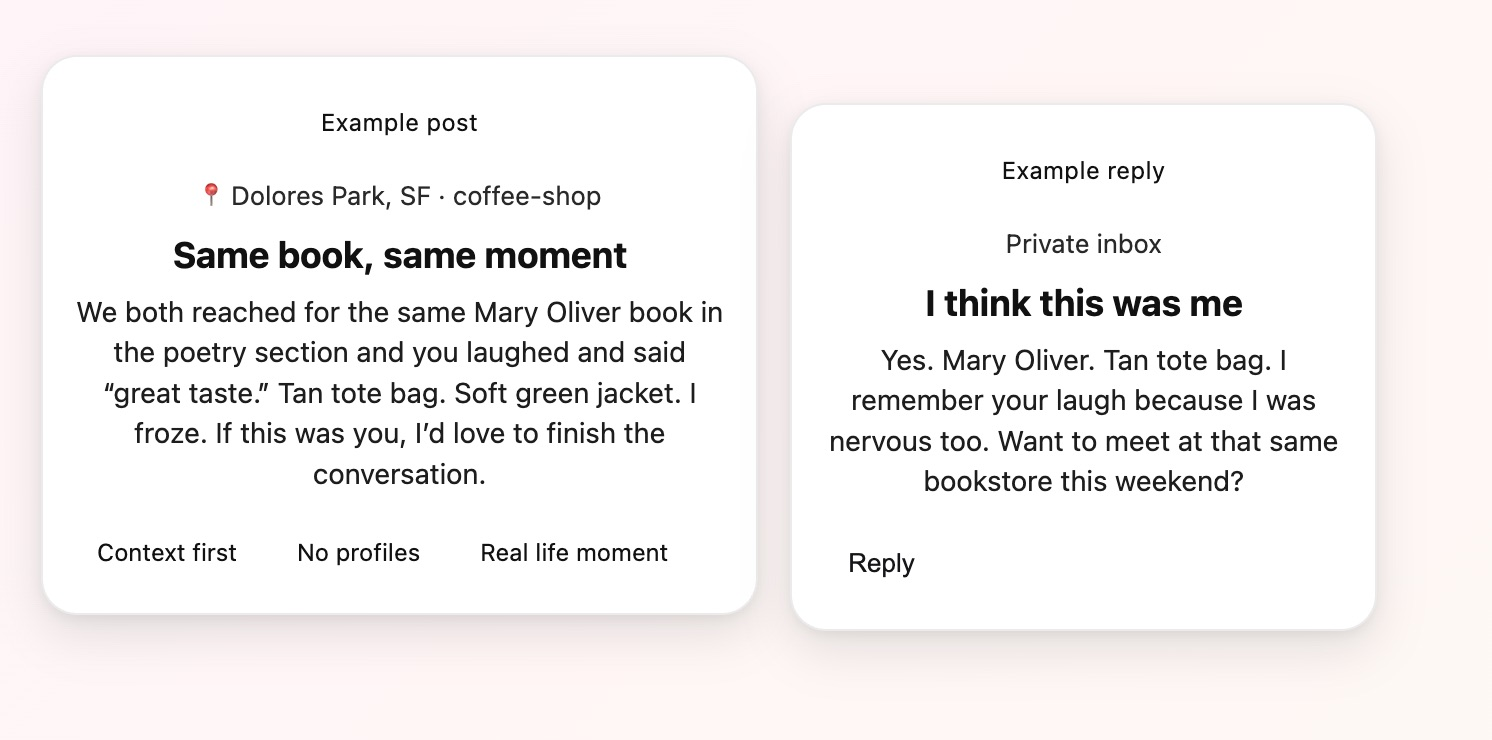
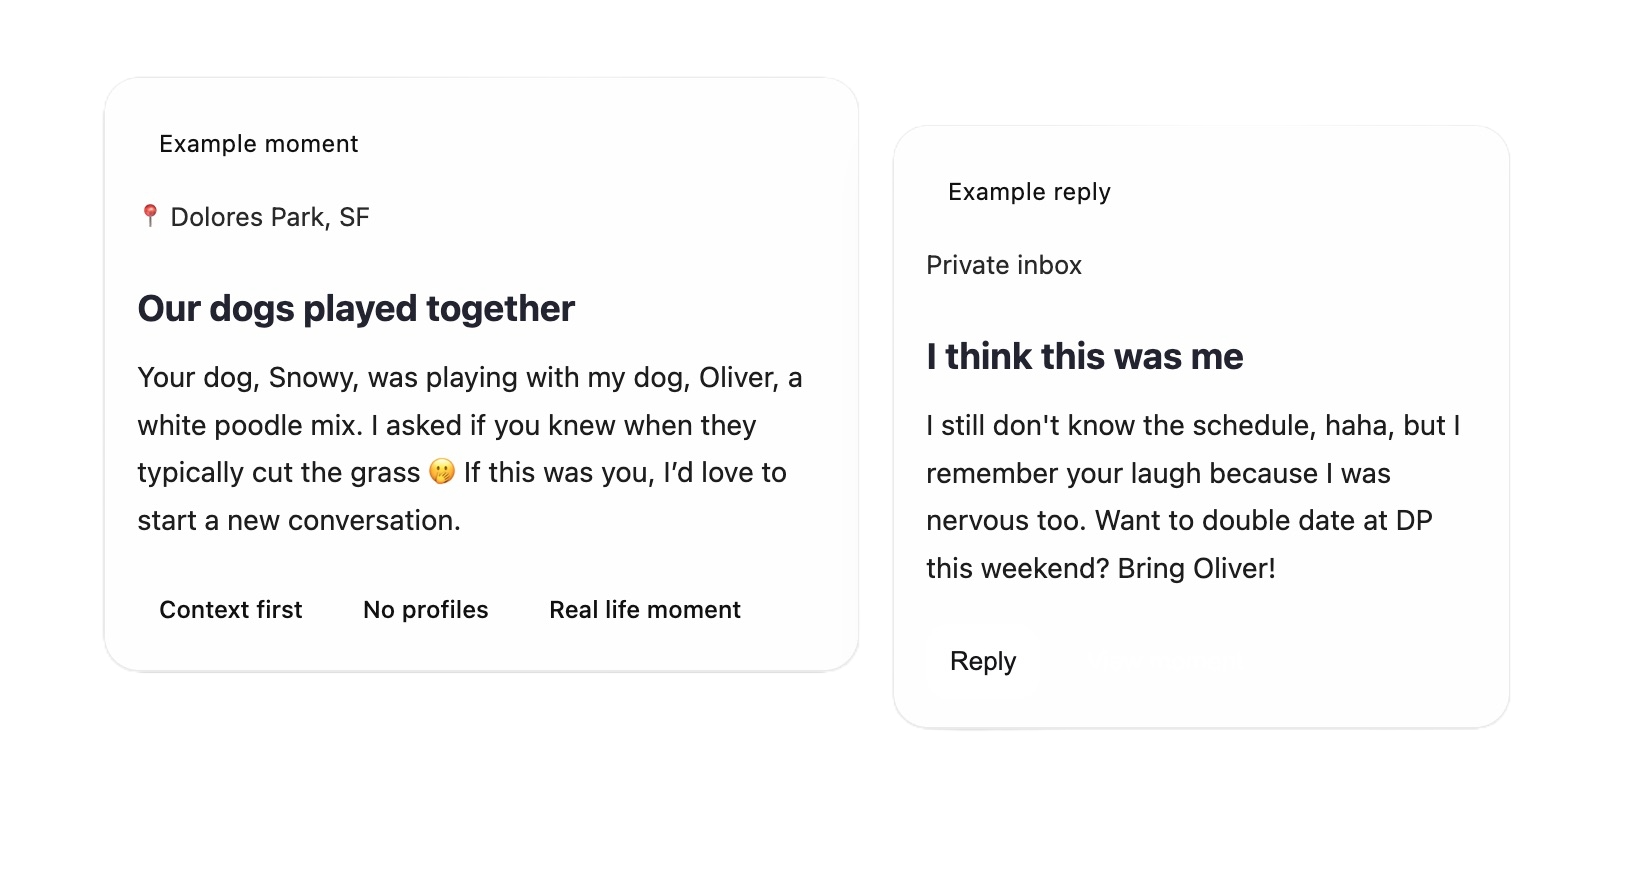
change hero animation to static shots with controls

diff --git a/public/index.html b/public/index.html
@@ -5,258 +5,6 @@
     <meta name="viewport" content="width=device-width, initial-scale=1.0" />
     <title>Crabiner - Missed Connections for Queers</title>
     <link rel="stylesheet" href="/styles/styles.css" />
-    <!-- <link rel="stylesheet" href="/styles/hero.css" /> -->
-
-    <style>
-      .hero-demo {
-        width: 100%;
-        max-width: 980px;
-        margin: 0 auto;
-        padding: 22px 16px 10px;
-      }
-
-      .demo-stage {
-        position: relative;
-        /* background: linear-gradient(
-          to bottom,
-          rgba(255, 255, 255, 0.96),
-          rgba(255, 255, 255, 0.98)
-        ); */
-        border-radius: 20px;
-        padding: 12px;
-      }
-      .demo-stage::before {
-        content: "";
-        display: block;
-        height: 460px;
-      }
-      @media (min-width: 820px) {
-        .demo-stage::before {
-          height: 380px;
-        }
-      }
-
-      /* Each pair sits on top of each other and fades in/out */
-      .demo-pair {
-        position: absolute;
-        inset: 0;
-        display: grid;
-        gap: 14px;
-        align-items: start;
-        opacity: 0;
-        pointer-events: none;
-      }
-
-      /* Desktop: post + reply side-by-side */
-      @media (min-width: 820px) {
-        .demo-pair {
-          grid-template-columns: 1.1fr 0.9fr;
-          gap: 16px;
-        }
-        .demo-pair .demo-reply {
-          margin-top: 24px;
-        }
-      }
-
-      .demo-card {
-        border: 1px solid rgba(0, 0, 0, 0.08);
-        background: rgba(255, 255, 255, 1);
-        border-radius: 18px;
-        padding: 16px 16px 14px;
-        box-shadow: 0 10px 24px rgba(0, 0, 0, 0.1),
-          0 2px 6px rgba(0, 0, 0, 0.06);
-        color: #111;
-      }
-
-      .demo-badge {
-        display: inline-flex;
-        align-items: center;
-        padding: 6px 10px;
-        border-radius: 999px;
-        font-size: 12px;
-        letter-spacing: 0.2px;
-        border: 1px solid rgba(255, 255, 255, 0.16);
-        background: rgba(255, 255, 255, 0.06);
-        margin-bottom: 10px;
-      }
-
-      .demo-badge-reply {
-        background: rgba(255, 255, 255, 0.1);
-      }
-
-      .demo-meta {
-        font-size: 13px;
-        opacity: 0.9;
-        margin-bottom: 8px;
-      }
-
-      .demo-title {
-        font-size: 18px;
-        margin: 0 0 8px 0;
-        line-height: 1.2;
-      }
-
-      .demo-body {
-        margin: 0 0 12px 0;
-        font-size: 14px;
-        line-height: 1.45;
-        opacity: 0.95;
-      }
-
-      .demo-chiprow {
-        display: flex;
-        flex-wrap: wrap;
-        gap: 8px;
-      }
-
-      .demo-chip {
-        font-size: 12px;
-        padding: 6px 10px;
-        border-radius: 999px;
-        background: rgba(255, 255, 255, 0.07);
-        border: 1px solid rgba(255, 255, 255, 0.12);
-      }
-
-      .demo-actions {
-        display: flex;
-        gap: 10px;
-        margin-top: 10px;
-      }
-
-      .demo-btn {
-        appearance: none;
-        border: 0;
-        border-radius: 12px;
-        padding: 10px 12px;
-        font-size: 13px;
-        cursor: pointer;
-        background: rgba(255, 255, 255, 0.92);
-        color: rgba(10, 10, 12, 0.95);
-      }
-
-      .demo-btn-ghost {
-        background: rgba(255, 255, 255, 0.08);
-        color: rgba(255, 255, 255, 0.92);
-        border: 1px solid rgba(255, 255, 255, 0.16);
-      }
-
-      /* Pair timing: 3 pairs, 18s total. Each pair: post appears, then reply, then fade out. */
-      .pair1 {
-        animation: pairCycle 27s ease-in-out infinite;
-        animation-delay: 0s;
-      }
-      .pair2 {
-        animation: pairCycle 27s ease-in-out infinite;
-        animation-delay: 9s;
-      }
-      .pair3 {
-        animation: pairCycle 27s ease-in-out infinite;
-        animation-delay: 18s;
-      }
-
-      @keyframes pairCycle {
-        0% {
-          opacity: 0;
-          transform: translateY(10px) scale(0.995);
-        }
-        8% {
-          opacity: 1;
-          transform: translateY(0) scale(1);
-        }
-        72% {
-          opacity: 1;
-          transform: translateY(0) scale(1);
-        }
-        92% {
-          opacity: 0;
-          transform: translateY(-6px) scale(0.995);
-        }
-        100% {
-          opacity: 0;
-          transform: translateY(-6px) scale(0.995);
-        }
-      }
-
-      /* Within a visible pair: post comes in first, reply follows */
-      .demo-post {
-        animation: demoPostIn 18s ease-in-out infinite;
-      }
-      .demo-reply {
-        animation: demoReplyIn 18s ease-in-out infinite;
-      }
-
-      /* These keyframes assume the pair is "active" for ~6s. The pair container handles global timing.
-     We keep subtle motion so it still looks nice even though the pair is already faded in. */
-      @keyframes pairCycle {
-        0% {
-          opacity: 0;
-          transform: translateY(12px);
-        }
-        10% {
-          opacity: 1;
-          transform: translateY(0);
-        }
-        75% {
-          opacity: 1;
-          transform: translateY(0);
-        }
-        90% {
-          opacity: 0;
-          transform: translateY(-6px);
-        }
-        100% {
-          opacity: 0;
-          transform: translateY(-6px);
-        }
-      }
-
-      @keyframes demoReplyIn {
-        0% {
-          opacity: 0;
-          transform: translateY(12px);
-        }
-        25% {
-          opacity: 0;
-          transform: translateY(12px);
-        }
-        40% {
-          opacity: 1;
-          transform: translateY(0);
-        }
-        75% {
-          opacity: 1;
-          transform: translateY(0);
-        }
-        90% {
-          opacity: 0;
-          transform: translateY(-4px);
-        }
-        100% {
-          opacity: 0;
-          transform: translateY(-4px);
-        }
-      }
-
-      /* Accessibility: respect reduced motion */
-      @media (prefers-reduced-motion: reduce) {
-        .demo-pair,
-        .demo-post,
-        .demo-reply {
-          animation: none !important;
-          opacity: 1 !important;
-          transform: none !important;
-          position: static;
-          pointer-events: auto;
-        }
-        .demo-stage {
-          display: grid;
-          gap: 16px;
-        }
-        .demo-stage::before {
-          display: none;
-        }
-      }
-    </style>
   </head>
   <body>
     <!-- Top Navigation Bar -->
@@ -289,36 +37,27 @@
             <span class="wave">👋</span> You already met. This helps you
             reconnect.
           </h1>
-          <!-- <div class="hero-graphic">
-            <div class="graphic-container">
-              <img class="hero-logo" src="images/crabiner_logo.png" />
-            </div>
-          </div> -->
-          <!-- Clickable, pausable screenshot carousel (no JS frameworks) -->
-          <section
-            class="hero-shot-carousel"
-            aria-label="Example Crabiner moments"
-          >
+          <div class="hero-shot-carousel" aria-label="Example Crabiner moments">
             <div class="carousel" data-paused="false">
               <div class="carousel-frame">
                 <img
                   class="carousel-shot"
-                  src="/images/hero/shot-1.jpg"
-                  alt="Example post and reply: Same book, same moment"
+                  src="/images/hero/shot-1.png"
+                  alt="Example moment and reply: Our dogs played together"
                   loading="eager"
                   decoding="async"
                 />
                 <img
                   class="carousel-shot"
-                  src="/images/hero/shot-2.jpg"
-                  alt="Example post and reply: Wrong stop on purpose"
+                  src="/images/hero/shot-2.png"
+                  alt="Example moment and reply: Wrong stop on purpose"
                   loading="lazy"
                   decoding="async"
                 />
                 <img
                   class="carousel-shot"
-                  src="/images/hero/shot-3.jpg"
-                  alt="Example post and reply: Lost in the crowd"
+                  src="/images/hero/shot-3.png"
+                  alt="Example moment and reply: Queerchata at El Rio"
                   loading="lazy"
                   decoding="async"
                 />
@@ -383,7 +122,7 @@
 
               <p class="carousel-caption">These are moments, not profiles.</p>
             </div>
-          </section>
+          </div>
 
           <style>
             .hero-shot-carousel {
@@ -400,19 +139,19 @@
             .carousel-frame {
               position: relative;
               width: 100%;
-              aspect-ratio: 16 / 9;
+              aspect-ratio: 16 / 8;
               border-radius: 20px;
-              overflow: hidden;
+              /* overflow: hidden;
               background: rgba(255, 255, 255, 0.96);
-              box-shadow: 0 12px 30px rgba(0, 0, 0, 0.1);
+              box-shadow: 0 12px 30px rgba(0, 0, 0, 0.1); */
             }
 
             .carousel-shot {
               position: absolute;
               inset: 0;
               width: 100%;
-              height: 100%;
-              object-fit: cover;
+              height: auto;
+              object-fit: contain;
               opacity: 0;
               transform: scale(1.01);
               transition: opacity 300ms ease, transform 800ms ease;
@@ -518,7 +257,6 @@
                   );
                 });
 
-                // If the user manually navigates, pause autoplay (feels respectful)
                 if (userAction) {
                   setPaused(true);
                 }
@@ -569,7 +307,6 @@
 
               pauseBtn.addEventListener("click", () => setPaused(!paused));
 
-              // Pause on hover (nice on desktop) but do not permanently pause
               root.addEventListener("mouseenter", () => {
                 if (!paused) {
                   if (timer) clearInterval(timer);
@@ -600,7 +337,7 @@
 
           <p class="hero-subtitle">
             A space for queer people to find someone they already crossed paths
-            with. No profiles. No cold intros. Just real moments.
+            with. <br />No profiles. No cold intros. Just real moments.
           </p>
 
           <p class="hero-description">
@@ -689,12 +426,6 @@
             <div class="feature-icon">⏰</div>
             <h3>Auto-Expiring Posts</h3>
             <p>Moments fade after 7 to 30 days. Nothing lingers forever.</p>
-          </div>
-
-          <div class="feature-card">
-            <div class="feature-icon">🛡</div>
-            <h3>Safe & Moderated</h3>
-            <p>Report inappropriate posts. Community-driven safety.</p>
           </div>
 
           <div class="feature-card">

diff --git a/public/styles/styles.css b/public/styles/styles.css
@@ -229,15 +229,16 @@ header .container {
 }
 
 .hero-content {
-  max-width: 700px;
+  max-width: 800px;
   margin: 0 auto;
 }
 
 .hero-title {
   font-size: 3rem;
   color: var(--text);
-  margin-bottom: 1rem;
+  margin:0 auto 1rem auto;
   line-height: 1.2;
+  max-width:700px;
 }
 
 .wave {
